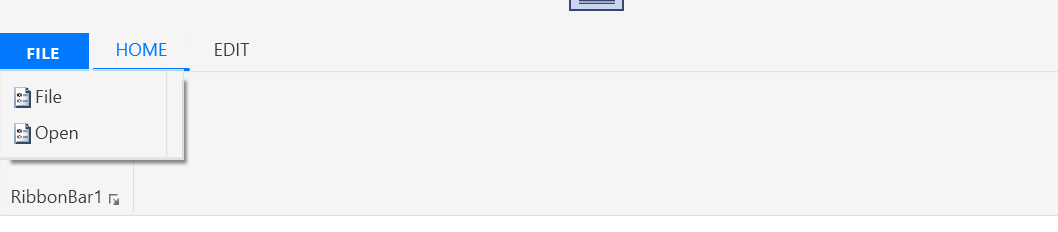
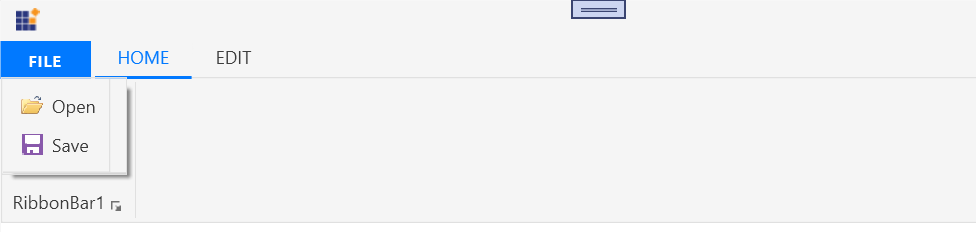
Addressed review corrections by modifying the files based on priority.

diff --git a/wpf/Ribbon/SimpleMenuButton.md b/wpf/Ribbon/SimpleMenuButton.md
@@ -21,7 +21,7 @@ documentation: ug
         xmlns:mc="http://schemas.openxmlformats.org/markup-compatibility/2006"
         xmlns:local="clr-namespace:TemplateSupport"
         xmlns:syncfusion="http://schemas.syncfusion.com/wpf"
-        xmlns:skinManager="clr-namespace:Syncfusion.SfSkinManager;assembly=Syncfusion.SfSkinManager.WPF"                 
+        xmlns:skinManager="clr-namespace:Syncfusion.SfSkinManager;assembly=Syncfusion.SfSkinManager.WPF"       
         mc:Ignorable="d"
         skinManager:SfSkinManager.VisualStyle="MaterialLight"
          Height="450" Width="800">
@@ -83,7 +83,7 @@ namespace TemplateSupport
             // Creating items
             ApplicationMenu _ApplicationMenu = new ApplicationMenu();
             ribbon.ApplicationMenu = _ApplicationMenu;
-            SimpleMenuButton _SimpleMenuButton = new SimpleMenuButton() { Label = "File", Width = 100 };        
+            SimpleMenuButton _SimpleMenuButton = new SimpleMenuButton() { Label = "File", Width = 100 };       
             SimpleMenuButton _SimpleMenuButton1 = new SimpleMenuButton() { Label = "Open", Width = 100 };
             SimpleMenuButton _SimpleMenuButton2 = new SimpleMenuButton() { Label = "Menu", Width = 100 };
             _ApplicationMenu.Items.Add(_SimpleMenuButton);
@@ -121,103 +121,9 @@ _ApplicationMenu.Items.Add(_SimpleMenuButton1)
 
 The [`SimpleMenuButton`](https://help.syncfusion.com/cr/wpf/Syncfusion.Windows.Tools.Controls.SimpleMenuButton.html) allows to display any type of image such as glyph, font or any custom content using `IconTemplate` property.  It also allows to display a normal image using [`Icon`](https://help.syncfusion.com/cr/wpf/Syncfusion.Windows.Tools.Controls.SimpleMenuButton.html#Syncfusion_Windows_Tools_Controls_SimpleMenuButton_Icon) property.
 
-### Setting Icon
-
-The [`Icon`](https://help.syncfusion.com/cr/wpf/Syncfusion.Windows.Tools.Controls.SimpleMenuButton.html#Syncfusion_Windows_Tools_Controls_SimpleMenuButton_Icon) property is used to set the image path directly to the `SimpleMenuButton`.
-
-{% tabs %}
-
-{% highlight XAML %}
-
-<syncfusion:RibbonWindow x:Class="TemplateSupport.MainWindow" 
-        xmlns="http://schemas.microsoft.com/winfx/2006/xaml/presentation"
-        xmlns:x="http://schemas.microsoft.com/winfx/2006/xaml"
-        xmlns:d="http://schemas.microsoft.com/expression/blend/2008"
-        xmlns:mc="http://schemas.openxmlformats.org/markup-compatibility/2006"
-        xmlns:local="clr-namespace:TemplateSupport"
-        xmlns:syncfusion="http://schemas.syncfusion.com/wpf"
-        xmlns:skinManager="clr-namespace:Syncfusion.SfSkinManager;assembly=Syncfusion.SfSkinManager.WPF"                 
-        mc:Ignorable="d"
-        skinManager:SfSkinManager.VisualStyle="MaterialLight"
-         Height="450" Width="800">
-    <Grid>
-        <syncfusion:Ribbon Name="_Ribbon1" HorizontalAlignment="Stretch" VerticalAlignment="Top">
-            <syncfusion:RibbonTab Name="_RibbonTab1" Caption="HOME"  IsChecked="False">
-            <syncfusion:RibbonBar Name="_RibbonBar1" Header="RibbonBar1">
-            <syncfusion:SimpleMenuButton Icon="/Resources/Copy16.png" Label="Open"/>
-            </syncfusion:RibbonBar>
-            </syncfusion:RibbonTab>
-            <syncfusion:RibbonTab Caption="EDIT"  IsChecked="False"/>
-               <syncfusion:Ribbon.ApplicationMenu>
-                    <syncfusion:ApplicationMenu Name="_ApplicationMenu" Width="38" Height="38" syncfusion:Ribbon.KeyTip="F" IsPopupOpen="False" ApplicationButtonImage="/Resources/App.ico">
-                        <syncfusion:SimpleMenuButton Label="File" Icon="/Resources/Options.png"/>
-                        <syncfusion:SimpleMenuButton Label="Open" Icon="/Resources/Copy16.png"/>
-                    </syncfusion:ApplicationMenu>
-                </syncfusion:Ribbon.ApplicationMenu>
-        </syncfusion:Ribbon>
-    </Grid>
-</syncfusion:RibbonWindow>    
-
-{% endhighlight %}
-
-{% endtabs %}
-
-Create an instance of SimpleMenuButton and add it to ApplicationMenu through code behind.
-
-{% tabs %}
-
-{% highlight C# %}
-
-using Syncfusion.SfSkinManager;
-using Syncfusion.Windows.Tools.Controls;
-using System;
-using System.Windows;
-using System.Windows.Media.Imaging;
-
-namespace TemplateSupport
-{
-    /// <summary>
-    /// Interaction logic for MainWindow.xaml
-    /// </summary>
-    public partial class MainWindow : RibbonWindow
-    {
-        public MainWindow()
-        {
-            InitializeComponent(); 
-            Ribbon ribbon = new Ribbon();
-            ribbon.VerticalAlignment = VerticalAlignment.Top;
-            // Creating new tabs
-            RibbonTab homeTab = new RibbonTab();
-            homeTab.Caption = "Home";
-            homeTab.IsChecked = true;
-            RibbonTab editTab = new RibbonTab();
-            editTab.Caption = "Edit";
-            // Creating new bar
-            RibbonBar ribbonBar = new RibbonBar();
-            ribbonBar.Header = "Clipboard";
-            // Creating items
-            ApplicationMenu _ApplicationMenu = new ApplicationMenu();
-            ribbon.ApplicationMenu = _ApplicationMenu;
-            SimpleMenuButton _SimpleMenuButton = new SimpleMenuButton() { Label = "File", Width = 100, Icon = new BitmapImage(new Uri(@"/Resources/Options.png", UriKind.RelativeOrAbsolute)) };        
-            SimpleMenuButton _SimpleMenuButton1 = new SimpleMenuButton() { Label = "Open", Width = 100, Icon = new BitmapImage(new Uri(@"/Resources/Options.png", UriKind.RelativeOrAbsolute)) };
-            SimpleMenuButton _SimpleMenuButton2 = new SimpleMenuButton() { Label = "Menu", Width = 100, Icon = new BitmapImage(new Uri(@"/Resources/Copy16.png", UriKind.RelativeOrAbsolute)) };
-            _ApplicationMenu.Items.Add(_SimpleMenuButton);
-            _ApplicationMenu.Items.Add(_SimpleMenuButton1);
-            ribbonBar.Items.Add(_SimpleMenuButton2);
-            homeTab.Items.Add(ribbonBar);
-            ribbon.Items.Add(homeTab);
-            ribbon.Items.Add(editTab);
-            grid.Children.Add(ribbon);
-            SfSkinManager.SetVisualStyle(this, VisualStyles.MaterialLight);
-        }
-    }
-}
-
-{% endhighlight %}
-
-{% endtabs %}
-
-![Image set using Icon property](SimpleMenuButton_images/Icon.png)
+N> The [`SimpleMenuButton`](https://help.syncfusion.com/cr/wpf/Syncfusion.Windows.Tools.Controls.SimpleMenuButton.html) loads icon in the following priority order,
+ * `IconTemplate`
+ * [`Icon`](https://help.syncfusion.com/cr/wpf/Syncfusion.Windows.Tools.Controls.SimpleMenuButton.html#Syncfusion_Windows_Tools_Controls_SimpleMenuButton_Icon)
 
 ### Setting icon template
 
@@ -234,7 +140,7 @@ The `IconTemplate` property provides support to set any type of image such as gl
         xmlns:mc="http://schemas.openxmlformats.org/markup-compatibility/2006"
         xmlns:local="clr-namespace:TemplateSupport"
         xmlns:syncfusion="http://schemas.syncfusion.com/wpf"
-        xmlns:skinManager="clr-namespace:Syncfusion.SfSkinManager;assembly=Syncfusion.SfSkinManager.WPF"                 
+        xmlns:skinManager="clr-namespace:Syncfusion.SfSkinManager;assembly=Syncfusion.SfSkinManager.WPF"
         mc:Ignorable="d"
         skinManager:SfSkinManager.VisualStyle="MaterialLight"
          Height="450" Width="800">
@@ -408,6 +314,98 @@ namespace TemplateSupport
 {% endtabs %}
 
 ![Image set for RibbonButton using IconTemplate property](SimpleMenuButton_images/IconTemplateSupport.png)
+
+### Setting image path
+
+The [`Icon`](https://help.syncfusion.com/cr/wpf/Syncfusion.Windows.Tools.Controls.SimpleMenuButton.html#Syncfusion_Windows_Tools_Controls_SimpleMenuButton_Icon) property is used to set the image path directly to the `SimpleMenuButton`.
+
+{% tabs %}
+
+{% highlight XAML %}
+
+<syncfusion:RibbonWindow x:Class="TemplateSupport.MainWindow" 
+        xmlns="http://schemas.microsoft.com/winfx/2006/xaml/presentation"
+        xmlns:x="http://schemas.microsoft.com/winfx/2006/xaml"
+        xmlns:d="http://schemas.microsoft.com/expression/blend/2008"
+        xmlns:mc="http://schemas.openxmlformats.org/markup-compatibility/2006"
+        xmlns:local="clr-namespace:TemplateSupport"
+        xmlns:syncfusion="http://schemas.syncfusion.com/wpf"
+        xmlns:skinManager="clr-namespace:Syncfusion.SfSkinManager;assembly=Syncfusion.SfSkinManager.WPF"
+        mc:Ignorable="d"
+        skinManager:SfSkinManager.VisualStyle="MaterialLight"
+         Height="450" Width="800">
+    <Grid>
+        <syncfusion:Ribbon Name="_Ribbon1" HorizontalAlignment="Stretch" VerticalAlignment="Top">
+            <syncfusion:RibbonTab Name="_RibbonTab1" Caption="HOME"  IsChecked="False">
+            <syncfusion:RibbonBar Name="_RibbonBar1" Header="RibbonBar1">
+            <syncfusion:SimpleMenuButton Icon="/Resources/Copy16.png" Label="Open"/>
+            </syncfusion:RibbonBar>
+            </syncfusion:RibbonTab>
+            <syncfusion:RibbonTab Caption="EDIT"  IsChecked="False"/>
+               <syncfusion:Ribbon.ApplicationMenu>
+                    <syncfusion:ApplicationMenu Name="_ApplicationMenu" Width="38" Height="38" syncfusion:Ribbon.KeyTip="F" IsPopupOpen="False" ApplicationButtonImage="/Resources/App.ico">
+                        <syncfusion:SimpleMenuButton Label="Open" Icon="/Resources/Open32.png"/>
+                        <syncfusion:SimpleMenuButton Label="Save" Icon="/Resources/Save16.png"/>
+                    </syncfusion:ApplicationMenu>
+                </syncfusion:Ribbon.ApplicationMenu>
+        </syncfusion:Ribbon>
+    </Grid>
+</syncfusion:RibbonWindow>    
+
+{% endhighlight %}
+
+{% highlight C# %}
+
+using Syncfusion.SfSkinManager;
+using Syncfusion.Windows.Tools.Controls;
+using System;
+using System.Windows;
+using System.Windows.Media.Imaging;
+
+namespace TemplateSupport
+{
+    /// <summary>
+    /// Interaction logic for MainWindow.xaml
+    /// </summary>
+    public partial class MainWindow : RibbonWindow
+    {
+        public MainWindow()
+        {
+            InitializeComponent(); 
+            Ribbon ribbon = new Ribbon();
+            ribbon.VerticalAlignment = VerticalAlignment.Top;
+            // Creating new tabs
+            RibbonTab homeTab = new RibbonTab();
+            homeTab.Caption = "Home";
+            homeTab.IsChecked = true;
+            RibbonTab editTab = new RibbonTab();
+            editTab.Caption = "Edit";
+            // Creating new bar
+            RibbonBar ribbonBar = new RibbonBar();
+            ribbonBar.Header = "Clipboard";
+            // Creating items
+            ApplicationMenu _ApplicationMenu = new ApplicationMenu();
+            ribbon.ApplicationMenu = _ApplicationMenu;
+            SimpleMenuButton _SimpleMenuButton = new SimpleMenuButton() { Label = "Open", Width = 100, Icon = new BitmapImage(new Uri(@"/Resources/Open32.png", UriKind.RelativeOrAbsolute)) };        
+            SimpleMenuButton _SimpleMenuButton1 = new SimpleMenuButton() { Label = "Save", Width = 100, Icon = new BitmapImage(new Uri(@"/Resources/Save16.png", UriKind.RelativeOrAbsolute)) };
+            SimpleMenuButton _SimpleMenuButton2 = new SimpleMenuButton() { Label = "Menu", Width = 100, Icon = new BitmapImage(new Uri(@"/Resources/Copy16.png", UriKind.RelativeOrAbsolute)) };
+            _ApplicationMenu.Items.Add(_SimpleMenuButton);
+            _ApplicationMenu.Items.Add(_SimpleMenuButton1);
+            ribbonBar.Items.Add(_SimpleMenuButton2);
+            homeTab.Items.Add(ribbonBar);
+            ribbon.Items.Add(homeTab);
+            ribbon.Items.Add(editTab);
+            grid.Children.Add(ribbon);
+            SfSkinManager.SetVisualStyle(this, VisualStyles.MaterialLight);
+        }
+    }
+}
+
+{% endhighlight %}
+
+{% endtabs %}
+
+![Image set using Icon property](SimpleMenuButton_images/Icon.png)
 
 
 
